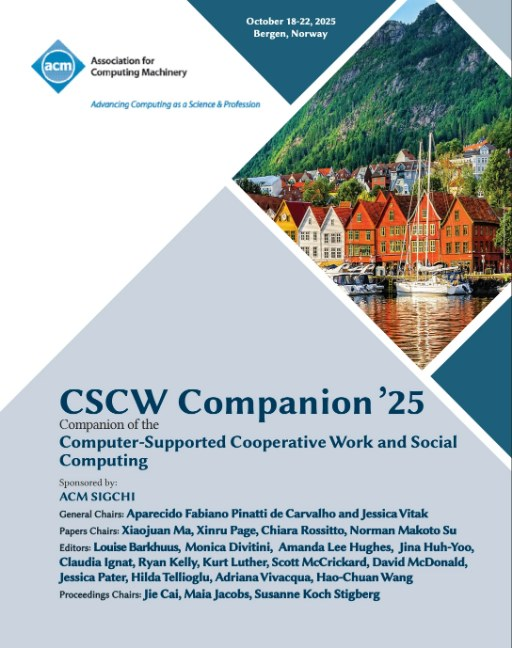
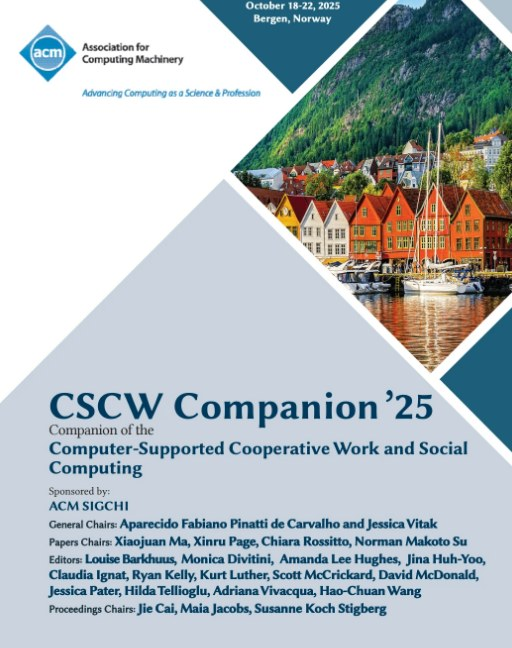
Zoom CSCW 25 crop past its edge border
Claude-Session: https://claude.ai/code/session_01PGBQS57RpPqe4dQN3b1VkF

diff --git a/publication.html b/publication.html
@@ -4,7 +4,7 @@
   <meta charset="UTF-8" />
   <meta name="viewport" content="width=device-width, initial-scale=1.0" />
   <title>Publication — Serene Cheon</title>
-  <link rel="stylesheet" href="style.css?v=400" />
+  <link rel="stylesheet" href="style.css?v=401" />
 </head>
 <body class="pub">
 
@@ -107,7 +107,7 @@
       <div class="pub-sec-title">Posters, Work in Progress</div>
       <div class="pub-grid">
 <article class="pub-card" data-areas="hai edtech design" id="poster-2025">
-        <img class="pub-thumb" src="cscw25-cover.jpg?v=1" alt="CSCW 2025 Companion cover" />
+        <img class="pub-thumb" src="cscw25-cover.jpg?v=2" alt="CSCW 2025 Companion cover" />
         <div class="pub-card-txt">
           <div class="pub-venue">CSCW 2025</div>
           <div class="pub-card-info">
@@ -119,7 +119,7 @@
       </article>
 
 <article class="pub-card" data-areas="hai edtech">
-        <img class="pub-thumb" src="cscw25-cover.jpg?v=1" alt="CSCW 2025 Companion cover" />
+        <img class="pub-thumb" src="cscw25-cover.jpg?v=2" alt="CSCW 2025 Companion cover" />
         <div class="pub-card-txt">
           <div class="pub-venue">CSCW 2025</div>
           <div class="pub-card-info">

diff --git a/index.html b/index.html
@@ -5,7 +5,7 @@
   <meta name="viewport" content="width=device-width, initial-scale=1.0" />
   <title>Serene Cheon — UX Researcher</title>
   <meta name="description" content="Serene Cheon is a UX researcher based in Berkeley." />
-  <link rel="stylesheet" href="style.css?v=400" />
+  <link rel="stylesheet" href="style.css?v=401" />
 </head>
 <body class="home">
 

diff --git a/about.html b/about.html
@@ -4,7 +4,7 @@
   <meta charset="UTF-8" />
   <meta name="viewport" content="width=device-width, initial-scale=1.0" />
   <title>About — Serene Cheon</title>
-  <link rel="stylesheet" href="style.css?v=400" />
+  <link rel="stylesheet" href="style.css?v=401" />
 </head>
 <body>
 

diff --git a/work.html b/work.html
@@ -4,7 +4,7 @@
   <meta charset="UTF-8" />
   <meta name="viewport" content="width=device-width, initial-scale=1.0" />
   <title>Work — Serene Cheon</title>
-  <link rel="stylesheet" href="style.css?v=400" />
+  <link rel="stylesheet" href="style.css?v=401" />
 </head>
 <body>
 
